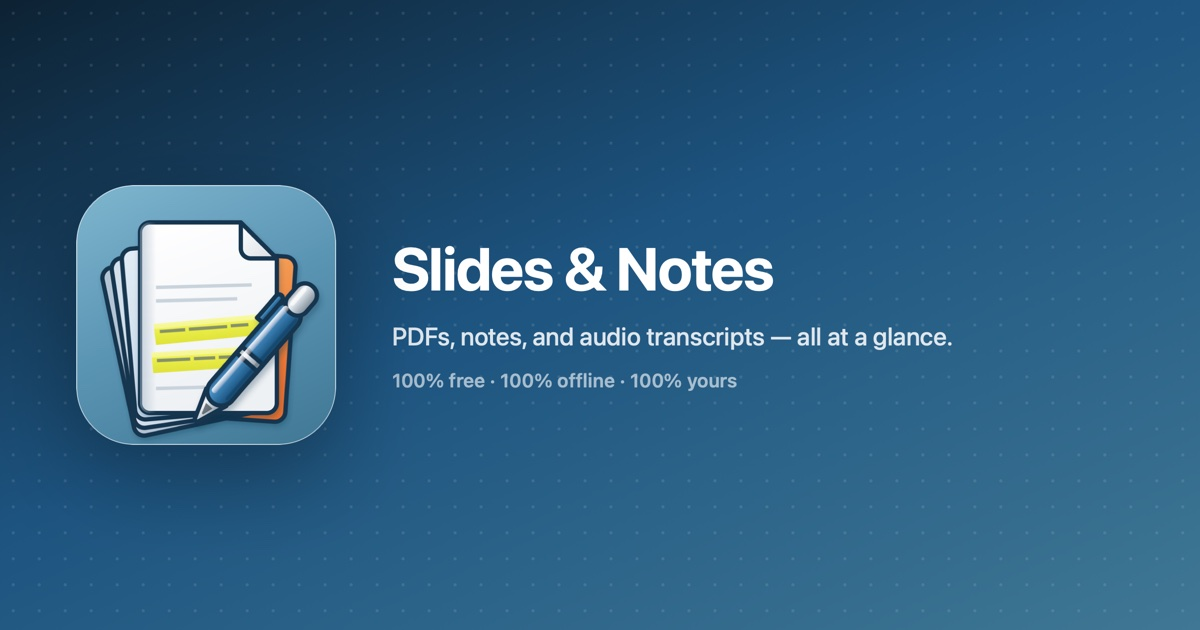
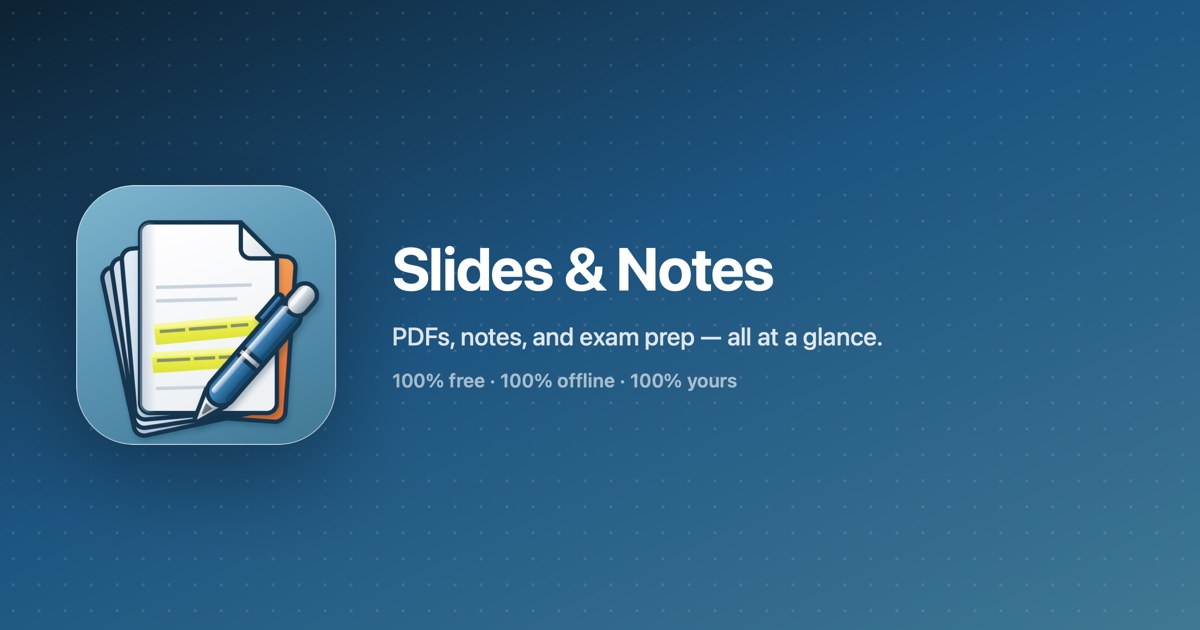
OG image: swap 'audio transcripts' for 'exam prep' in the tagline

Changed region(s): [[0.4933, 0.5127, 0.8017, 0.573]]

diff --git a/og-source.html b/og-source.html
@@ -47,7 +47,7 @@
     <img class="icon" src="assets/icon-512.png">
     <div class="text">
       <h1>Slides &amp; Notes</h1>
-      <p>PDFs, notes, and audio transcripts — all at a glance.</p>
+      <p>PDFs, notes, and exam prep — all at a glance.</p>
       <p class="sub">100% free · 100% offline · 100% yours</p>
     </div>
   </div>
